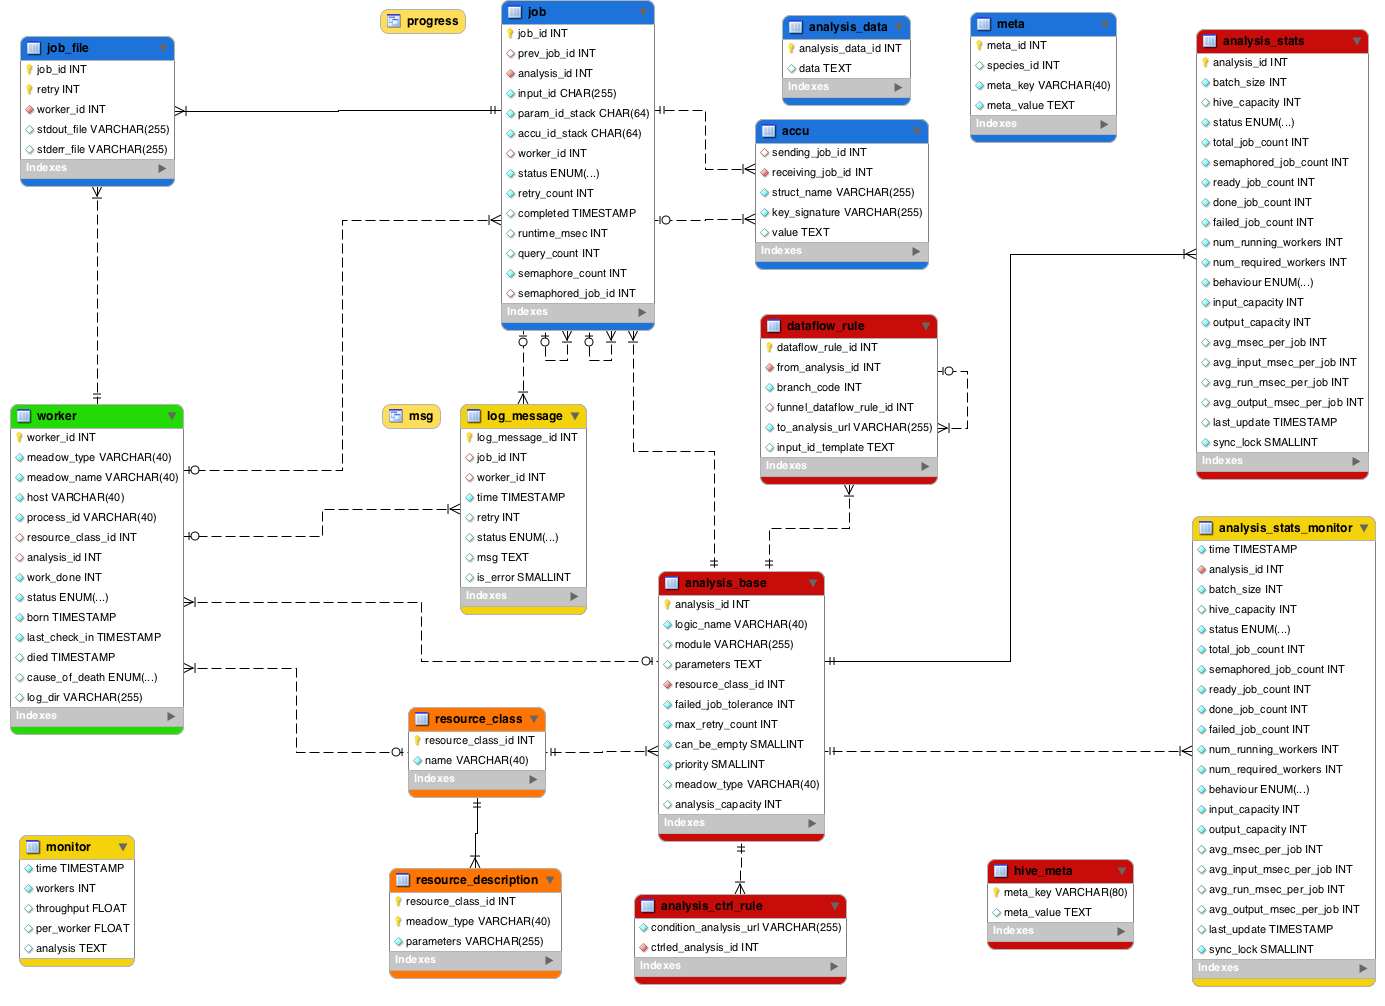
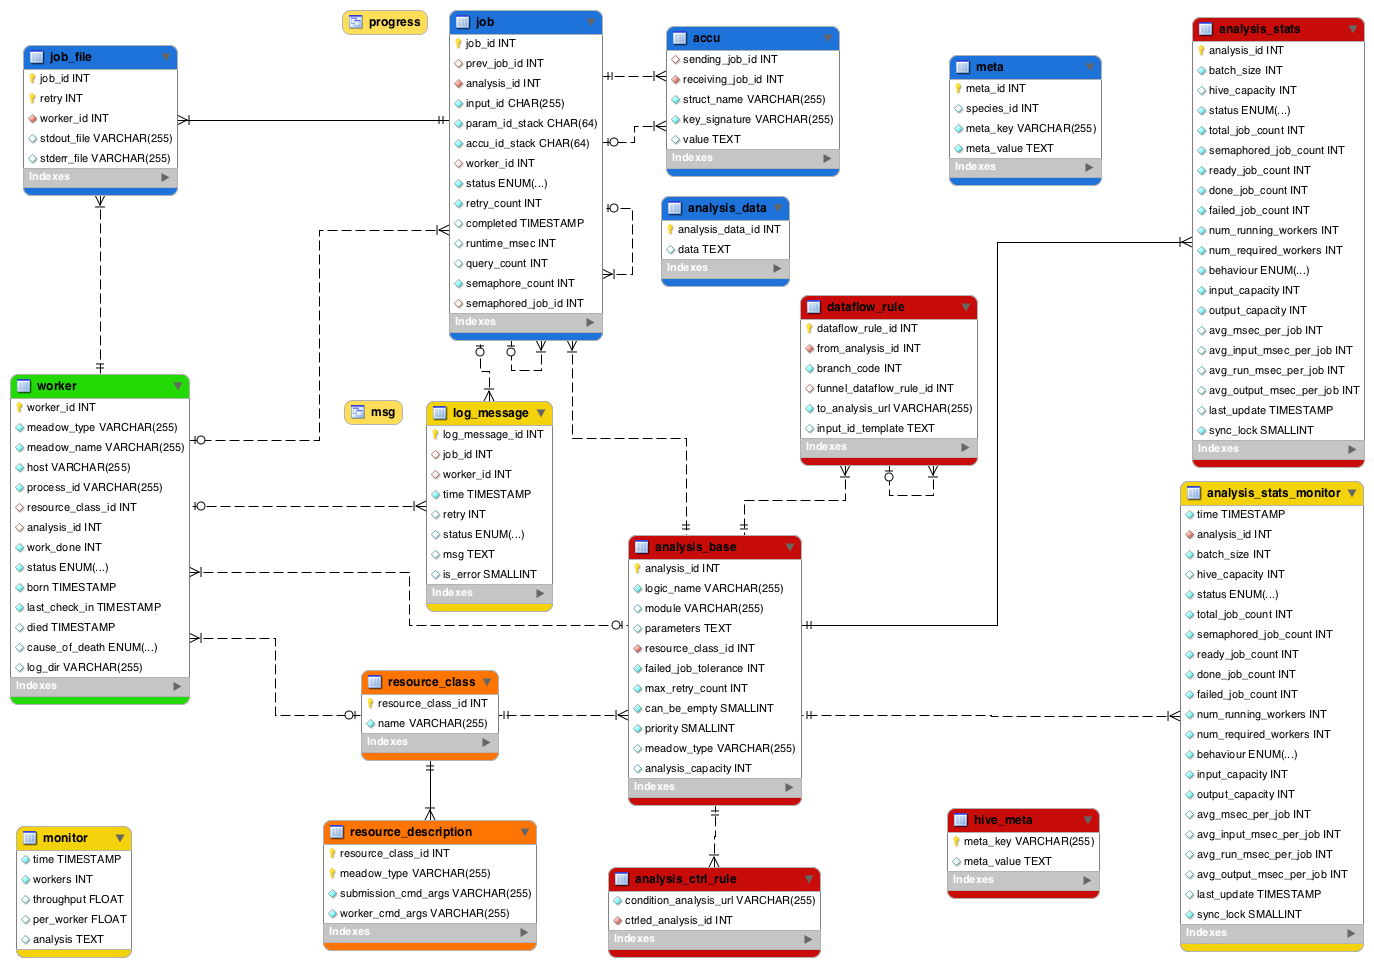
updated schema diagram (PNG) and description (HTML)

diff --git a/docs/hive_schema.html b/docs/hive_schema.html
@@ -1,10 +1,9 @@
 
 <html>
 <head>
-<meta http-equiv="CONTENT-TYPE" content="text/html; charset=utf-8" />
 <title>Hive Schema Documentation</title>
-
-<link rel="stylesheet" type="text/css" media="all" href="http://static.ensembl.org/minified/eb8658698ad4d45258b954c2d3f35bad.css" />
+<meta name="order" content="2" />
+<link rel="stylesheet" type="text/css" media="all" href="http://static.ensembl.org/minified/9256d71d74fd7c3e9e2b7815edb7812b.css" />
 
 <script language="Javascript" type="text/javascript">
   var img_plus   = '<img src="/i/16/plus-button.png" style="width:12px;height:12px;vertical-align:middle" alt="show"/>';
@@ -73,8 +72,6 @@
 <body>
 
 <h1>Ensembl Hive Schema Documentation</h1>
-<h2>Introduction</h2>
-<p><i>please, insert your introduction here</i><p><br />
 
 <h3 id="top">List of the tables:</h3>
 <div>
@@ -155,7 +152,7 @@
   
 <br /><br />
 <div style="background-color:#F2F2F2;padding:5px;margin:5px 0px;border-top:2px solid #C70C09">
-  <h2 style="display:inline;color:#000">Pipeline structure</h2>
+  <h2 id="1" style="display:inline;color:#000">Pipeline structure</h2>
 </div>
 
   <div id="analysis_base" style="width:820px;height:20px;border: 2px groove #CCC;background-color:#FAFAFF;padding:2px;margin-top:35px;margin-bottom:2px">
@@ -175,7 +172,7 @@
     <table style="border:1px solid #667aa6;padding:0px;min-width:1000px;max-width:1200px">
       <tr class="center" style="color:#FFFFFF;background-color:#667aa6"><th style="color:#FFF;padding:2px">Column</th><th style="color:#FFF;padding:2px">Type</th><th style="color:#FFF;padding:2px;min-width:80px">Default value</th><th style="color:#FFF;padding:2px;min-width:500px">Description</th><th style="color:#FFF;padding:2px;min-width:100px">Index</th></tr>
       <tr class="bg1"><td><b>analysis_id</b></td><td>INTEGER</td><td></td><td>a unique ID that is also a foreign key to most of the other tables</td><td></td></tr>
-      <tr class="bg2"><td><b>logic_name</b></td><td>VARCHAR(40)</td><td></td><td>the name of the Analysis object</td><td>unique  key: logic_name_idx</td></tr>
+      <tr class="bg2"><td><b>logic_name</b></td><td>VARCHAR(255)</td><td></td><td>the name of the Analysis object</td><td>unique  key: logic_name_idx</td></tr>
       <tr class="bg1"><td><b>module</b></td><td>VARCHAR(255)</td><td></td><td>the Perl module name that runs this Analysis</td><td></td></tr>
       <tr class="bg2"><td><b>parameters</b></td><td>TEXT</td><td></td><td>a stingified hash of parameters common to all jobs of the Analysis</td><td></td></tr>
       <tr class="bg1"><td><b>resource_class_id</b></td><td>INTEGER</td><td></td><td>link to the resource_class table</td><td></td></tr>
@@ -183,7 +180,7 @@
       <tr class="bg1"><td><b>max_retry_count</b></td><td>INTEGER</td><td>3</td><td>how many times a job of this Analysis will be retried (unless there is no point)</td><td></td></tr>
       <tr class="bg2"><td><b>can_be_empty</b></td><td>SMALLINT</td><td>0</td><td>if TRUE, this Analysis will not be blocking if/while it doesn't have any jobs</td><td></td></tr>
       <tr class="bg1"><td><b>priority</b></td><td>SMALLINT</td><td>0</td><td>an Analysis with higher priority will be more likely chosen on Worker's specialization</td><td></td></tr>
-      <tr class="bg2"><td><b>meadow_type</b></td><td>VARCHAR(40)</td><td>NULL</td><td>if defined, forces this Analysis to be run only on the given Meadow</td><td></td></tr>
+      <tr class="bg2"><td><b>meadow_type</b></td><td>VARCHAR(255)</td><td>NULL</td><td>if defined, forces this Analysis to be run only on the given Meadow</td><td></td></tr>
       <tr class="bg1"><td><b>analysis_capacity</b></td><td>INTEGER</td><td>NULL</td><td>if defined, limits the number of Workers of this particular Analysis that are allowed to run in parallel</td><td></td></tr>
     </table>
   </div>
@@ -275,7 +272,7 @@
 
 <br /><br />
 <div style="background-color:#F2F2F2;padding:5px;margin:5px 0px;border-top:2px solid #FF7504">
-  <h2 style="display:inline;color:#000">Resources</h2>
+  <h2 id="2" style="display:inline;color:#000">Resources</h2>
 </div>
 
   <div id="resource_class" style="width:820px;height:20px;border: 2px groove #CCC;background-color:#FAFAFF;padding:2px;margin-top:35px;margin-bottom:2px">
@@ -295,7 +292,7 @@
     <table style="border:1px solid #667aa6;padding:0px;min-width:1000px;max-width:1200px">
       <tr class="center" style="color:#FFFFFF;background-color:#667aa6"><th style="color:#FFF;padding:2px">Column</th><th style="color:#FFF;padding:2px">Type</th><th style="color:#FFF;padding:2px;min-width:80px">Default value</th><th style="color:#FFF;padding:2px;min-width:500px">Description</th><th style="color:#FFF;padding:2px;min-width:100px">Index</th></tr>
       <tr class="bg1"><td><b>resource_class_id</b></td><td>INTEGER</td><td></td><td>unique ID of the ResourceClass</td><td></td></tr>
-      <tr class="bg2"><td><b>name</b></td><td>VARCHAR(40)</td><td></td><td>unique name of the ResourceClass</td><td>unique: key</td></tr>
+      <tr class="bg2"><td><b>name</b></td><td>VARCHAR(255)</td><td></td><td>unique name of the ResourceClass</td><td>unique: key</td></tr>
     </table>
   </div>
 
@@ -316,14 +313,15 @@
     <table style="border:1px solid #667aa6;padding:0px;min-width:1000px;max-width:1200px">
       <tr class="center" style="color:#FFFFFF;background-color:#667aa6"><th style="color:#FFF;padding:2px">Column</th><th style="color:#FFF;padding:2px">Type</th><th style="color:#FFF;padding:2px;min-width:80px">Default value</th><th style="color:#FFF;padding:2px;min-width:500px">Description</th><th style="color:#FFF;padding:2px;min-width:100px">Index</th></tr>
       <tr class="bg1"><td><b>resource_class_id</b></td><td>INTEGER</td><td></td><td>foreign-keyed to the ResourceClass entry</td><td>primary key</td></tr>
-      <tr class="bg2"><td><b>meadow_type</b></td><td>VARCHAR(40)</td><td></td><td>if the Worker is about to be executed on the given Meadow...</td><td>primary key</td></tr>
-      <tr class="bg1"><td><b>parameters</b></td><td>VARCHAR(255)</td><td>''</td><td>... the following resource line should be given to it.</td><td></td></tr>
+      <tr class="bg2"><td><b>meadow_type</b></td><td>VARCHAR(255)</td><td></td><td>if the Worker is about to be executed on the given Meadow...</td><td>primary key</td></tr>
+      <tr class="bg1"><td><b>submission_cmd_args</b></td><td>VARCHAR(255)</td><td>''</td><td>... these are the resource arguments (queue, memory,...) to give to the submission command</td><td></td></tr>
+      <tr class="bg2"><td><b>worker_cmd_args</b></td><td>VARCHAR(255)</td><td>''</td><td>... and these are the arguments that are given to the worker command being submitted</td><td></td></tr>
     </table>
   </div>
 
 <br /><br />
 <div style="background-color:#F2F2F2;padding:5px;margin:5px 0px;border-top:2px solid #1D73DA">
-  <h2 style="display:inline;color:#000">Job-related</h2>
+  <h2 id="3" style="display:inline;color:#000">Job-related</h2>
 </div>
 
   <div id="job" style="width:820px;height:20px;border: 2px groove #CCC;background-color:#FAFAFF;padding:2px;margin-top:35px;margin-bottom:2px">
@@ -444,7 +442,7 @@
   <div id="div_hive_meta" style="display:none">
     <table style="border:1px solid #667aa6;padding:0px;min-width:1000px;max-width:1200px">
       <tr class="center" style="color:#FFFFFF;background-color:#667aa6"><th style="color:#FFF;padding:2px">Column</th><th style="color:#FFF;padding:2px">Type</th><th style="color:#FFF;padding:2px;min-width:80px">Default value</th><th style="color:#FFF;padding:2px;min-width:500px">Description</th><th style="color:#FFF;padding:2px;min-width:100px">Index</th></tr>
-      <tr class="bg1"><td><b>meta_key</b></td><td>VARCHAR(80)</td><td></td><td>the KEY of KEY-VALUE pairs (primary key)</td><td></td></tr>
+      <tr class="bg1"><td><b>meta_key</b></td><td>VARCHAR(255)</td><td></td><td>the KEY of KEY-VALUE pairs (primary key)</td><td></td></tr>
       <tr class="bg2"><td><b>meta_value</b></td><td>TEXT</td><td></td><td>the VALUE of KEY-VALUE pairs</td><td></td></tr>
     </table>
   </div>
@@ -467,14 +465,14 @@
       <tr class="center" style="color:#FFFFFF;background-color:#667aa6"><th style="color:#FFF;padding:2px">Column</th><th style="color:#FFF;padding:2px">Type</th><th style="color:#FFF;padding:2px;min-width:80px">Default value</th><th style="color:#FFF;padding:2px;min-width:500px">Description</th><th style="color:#FFF;padding:2px;min-width:100px">Index</th></tr>
       <tr class="bg1"><td><b>meta_id</b></td><td>INTEGER</td><td></td><td>auto-incrementing primary key, not really used per se</td><td></td></tr>
       <tr class="bg2"><td><b>species_id</b></td><td>INTEGER</td><td>1</td><td>always 1, kept for compatibility with the Core API</td><td>unique    key: species_key_value_idx<br />key: species_value_idx</td></tr>
-      <tr class="bg1"><td><b>meta_key</b></td><td>VARCHAR(40)</td><td></td><td>the KEY of KEY-VALUE pairs</td><td>unique    key: species_key_value_idx</td></tr>
+      <tr class="bg1"><td><b>meta_key</b></td><td>VARCHAR(255)</td><td></td><td>the KEY of KEY-VALUE pairs</td><td>unique    key: species_key_value_idx</td></tr>
       <tr class="bg2"><td><b>meta_value</b></td><td>TEXT</td><td></td><td>the VALUE of KEY-VALUE pairs</td><td>unique    key: species_key_value_idx<br />key: species_value_idx</td></tr>
     </table>
   </div>
 
 <br /><br />
 <div style="background-color:#F2F2F2;padding:5px;margin:5px 0px;border-top:2px solid #24DA06">
-  <h2 style="display:inline;color:#000">worker table</h2>
+  <h2 id="4" style="display:inline;color:#000">worker table</h2>
 </div>
 
   <div id="worker" style="width:820px;height:20px;border: 2px groove #CCC;background-color:#FAFAFF;padding:2px;margin-top:35px;margin-bottom:2px">
@@ -494,10 +492,10 @@
     <table style="border:1px solid #667aa6;padding:0px;min-width:1000px;max-width:1200px">
       <tr class="center" style="color:#FFFFFF;background-color:#667aa6"><th style="color:#FFF;padding:2px">Column</th><th style="color:#FFF;padding:2px">Type</th><th style="color:#FFF;padding:2px;min-width:80px">Default value</th><th style="color:#FFF;padding:2px;min-width:500px">Description</th><th style="color:#FFF;padding:2px;min-width:100px">Index</th></tr>
       <tr class="bg1"><td><b>worker_id</b></td><td>INTEGER</td><td></td><td>unique ID of the Worker</td><td></td></tr>
-      <tr class="bg2"><td><b>meadow_type</b></td><td>VARCHAR(40)</td><td></td><td>type of the Meadow it is running on</td><td></td></tr>
-      <tr class="bg1"><td><b>meadow_name</b></td><td>VARCHAR(40)</td><td></td><td>name of the Meadow it is running on (for 'LOCAL' type is the same as host)</td><td></td></tr>
-      <tr class="bg2"><td><b>host</b></td><td>VARCHAR(40)</td><td></td><td>execution host name</td><td></td></tr>
-      <tr class="bg1"><td><b>process_id</b></td><td>VARCHAR(40)</td><td></td><td>identifies the Worker process on the Meadow (for 'LOCAL' is the OS PID)</td><td></td></tr>
+      <tr class="bg2"><td><b>meadow_type</b></td><td>VARCHAR(255)</td><td></td><td>type of the Meadow it is running on</td><td></td></tr>
+      <tr class="bg1"><td><b>meadow_name</b></td><td>VARCHAR(255)</td><td></td><td>name of the Meadow it is running on (for 'LOCAL' type is the same as host)</td><td></td></tr>
+      <tr class="bg2"><td><b>host</b></td><td>VARCHAR(255)</td><td></td><td>execution host name</td><td></td></tr>
+      <tr class="bg1"><td><b>process_id</b></td><td>VARCHAR(255)</td><td></td><td>identifies the Worker process on the Meadow (for 'LOCAL' is the OS PID)</td><td></td></tr>
       <tr class="bg2"><td><b>resource_class_id</b></td><td>INTEGER</td><td>NULL</td><td>links to Worker's resource class</td><td></td></tr>
       <tr class="bg1"><td><b>analysis_id</b></td><td>INTEGER</td><td>NULL</td><td>Analysis the Worker is specified into</td><td>key: analysis_status</td></tr>
       <tr class="bg2"><td><b>work_done</b></td><td>INTEGER</td><td>0</td><td>how many jobs the Worker has completed successfully</td><td></td></tr>
@@ -505,14 +503,14 @@
       <tr class="bg2"><td><b>born</b></td><td>TIMESTAMP</td><td>CURRENT_TIMESTAMP</td><td>when the Worker process was started</td><td></td></tr>
       <tr class="bg1"><td><b>last_check_in</b></td><td>TIMESTAMP</td><td></td><td>when the Worker last checked into the database</td><td></td></tr>
       <tr class="bg2"><td><b>died</b></td><td>TIMESTAMP</td><td></td><td>if defined, when the Worker died (or its premature death was first detected by GC)</td><td></td></tr>
-      <tr class="bg1"><td><b>cause_of_death</b></td><td>ENUM('NO_ROLE', 'NO_WORK', 'JOB_LIMIT', 'HIVE_OVERLOAD', 'LIFESPAN', 'CONTAMINATED', 'KILLED_BY_USER', 'MEMLIMIT', 'RUNLIMIT', 'SEE_MSG', 'UNKNOWN')</td><td>NULL</td><td>if defined, why did the Worker exit (or why it was killed)</td><td></td></tr>
+      <tr class="bg1"><td><b>cause_of_death</b></td><td>ENUM('NO_ROLE', 'NO_WORK', 'JOB_LIMIT', 'HIVE_OVERLOAD', 'LIFESPAN', 'CONTAMINATED', 'RELOCATED', 'KILLED_BY_USER', 'MEMLIMIT', 'RUNLIMIT', 'SEE_MSG', 'UNKNOWN')</td><td>NULL</td><td>if defined, why did the Worker exit (or why it was killed)</td><td></td></tr>
       <tr class="bg2"><td><b>log_dir</b></td><td>VARCHAR(255)</td><td>NULL</td><td>if defined, a filesystem directory where this Worker's output is logged</td><td></td></tr>
     </table>
   </div>
 
 <br /><br />
 <div style="background-color:#F2F2F2;padding:5px;margin:5px 0px;border-top:2px solid #F4D20C">
-  <h2 style="display:inline;color:#000">Logging and monitoring</h2>
+  <h2 id="5" style="display:inline;color:#000">Logging and monitoring</h2>
 </div>
 
   <div id="log_message" style="width:820px;height:20px;border: 2px groove #CCC;background-color:#FAFAFF;padding:2px;margin-top:35px;margin-bottom:2px">
